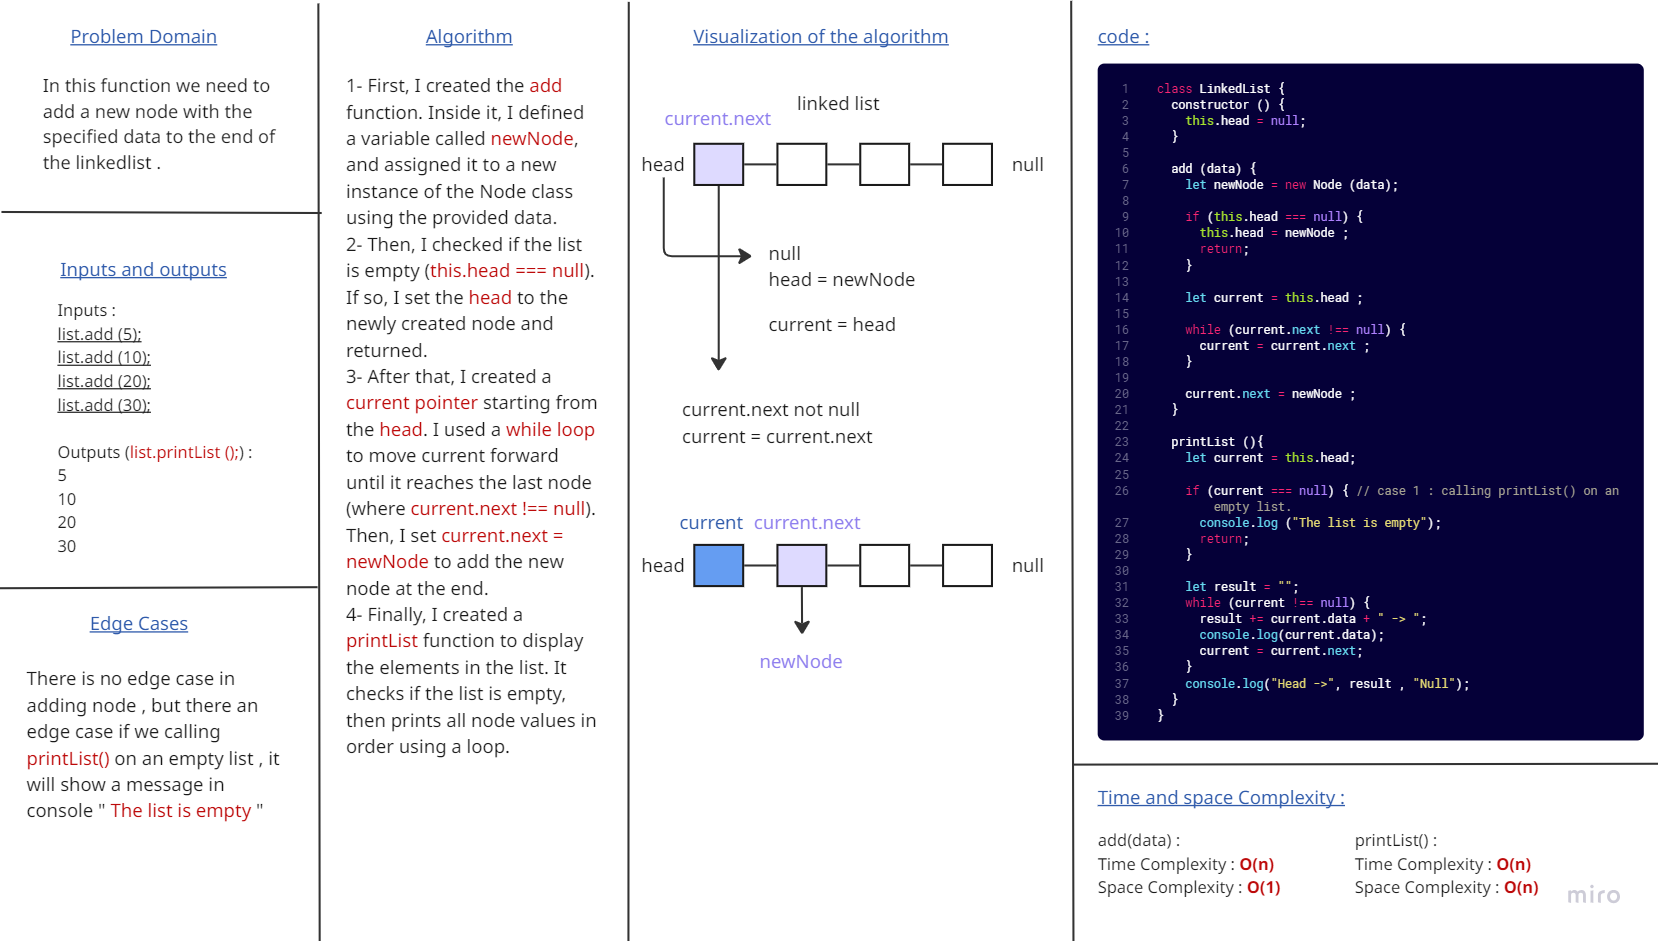
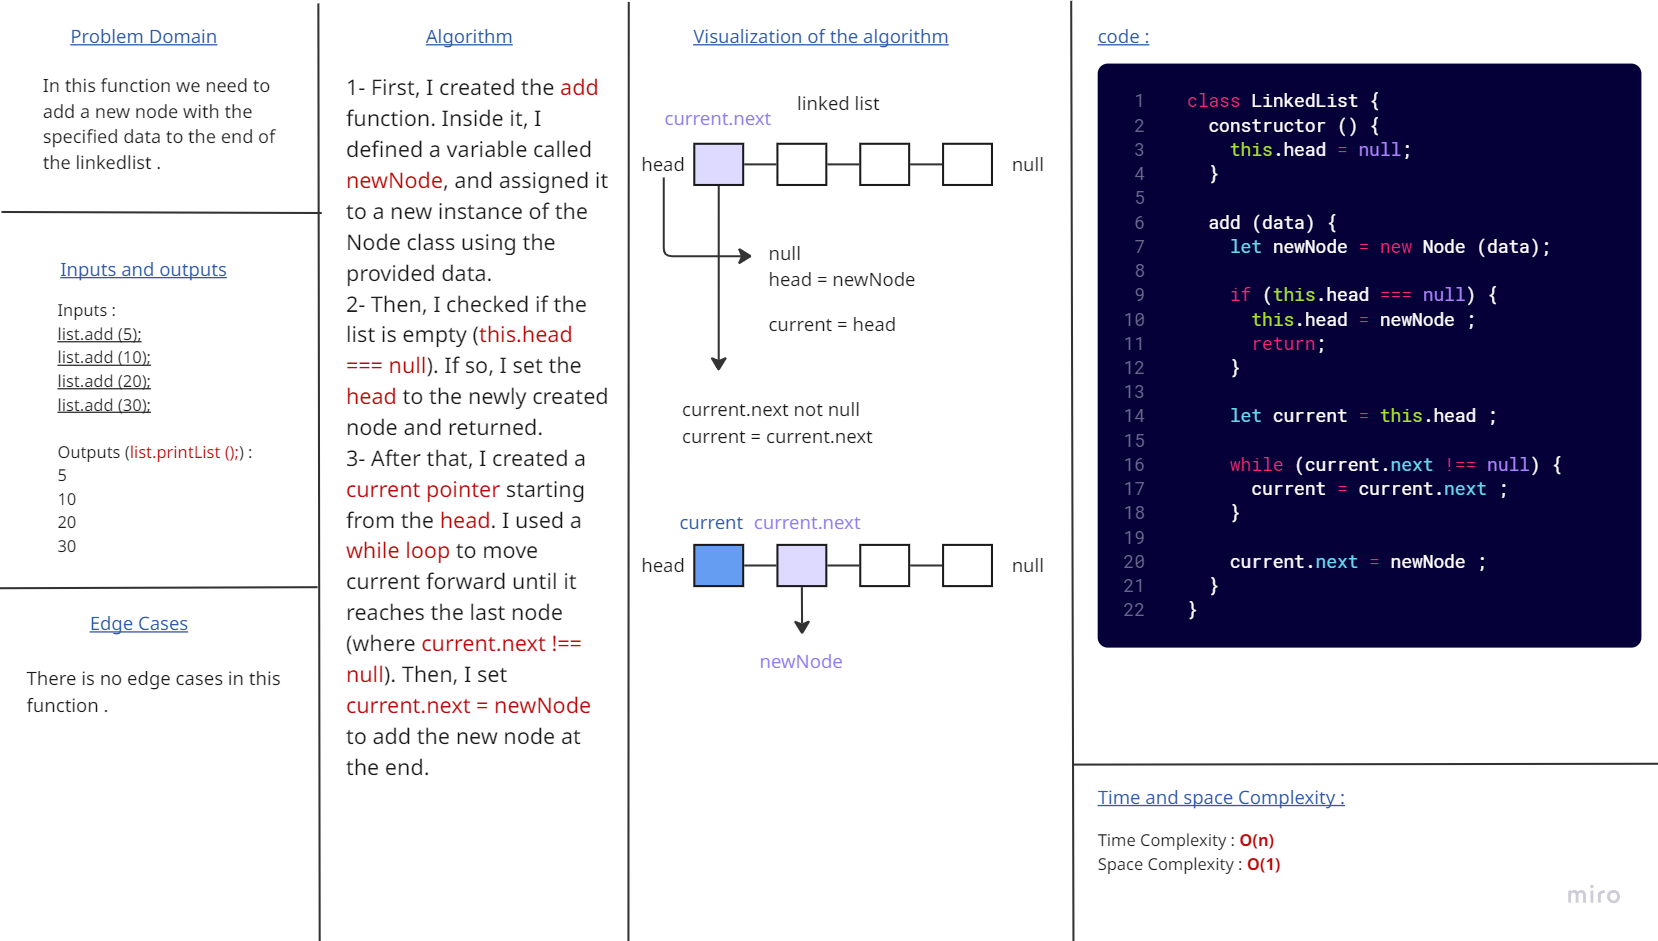
changes

diff --git a/whiteboard-challenges/Data-Structures/LinkedList/Linked-List-Implementation/README.md b/whiteboard-challenges/Data-Structures/LinkedList/Linked-List-Implementation/README.md
@@ -12,7 +12,11 @@
 
 ![addoutput](./images/addOutput.png)
 
-### 2- remove(data) : Remove the first node with the specified data from the linkedlist.
+### 2- printList() : Print the contents of the list in order .
+
+![print](./images/printListFunction.png)
+
+### 3- remove(data) : Remove the first node with the specified data from the linkedlist.
 
 ![remove](./images/removeFunction.png)
 
@@ -20,7 +24,7 @@
 
 ![removeoutput](./images/removeOutput.png)
 
-### 3- includes(data) : Check if the linked list contains a node with the specified value.
+### 4- includes(data) : Check if the linked list contains a node with the specified value.
 
 ![includes](./images/includesFunction.png)
 
@@ -28,7 +32,7 @@
 
 ![includesoutput](./images/includesOutput.png)
 
-### 4- insertAt(data, index) : Insert a new node with the specified data at the specified index in the linkedlist.
+### 5- insertAt(data, index) : Insert a new node with the specified data at the specified index in the linkedlist.
 
 ![insertAt](./images/insertAtFunction.png)
 
